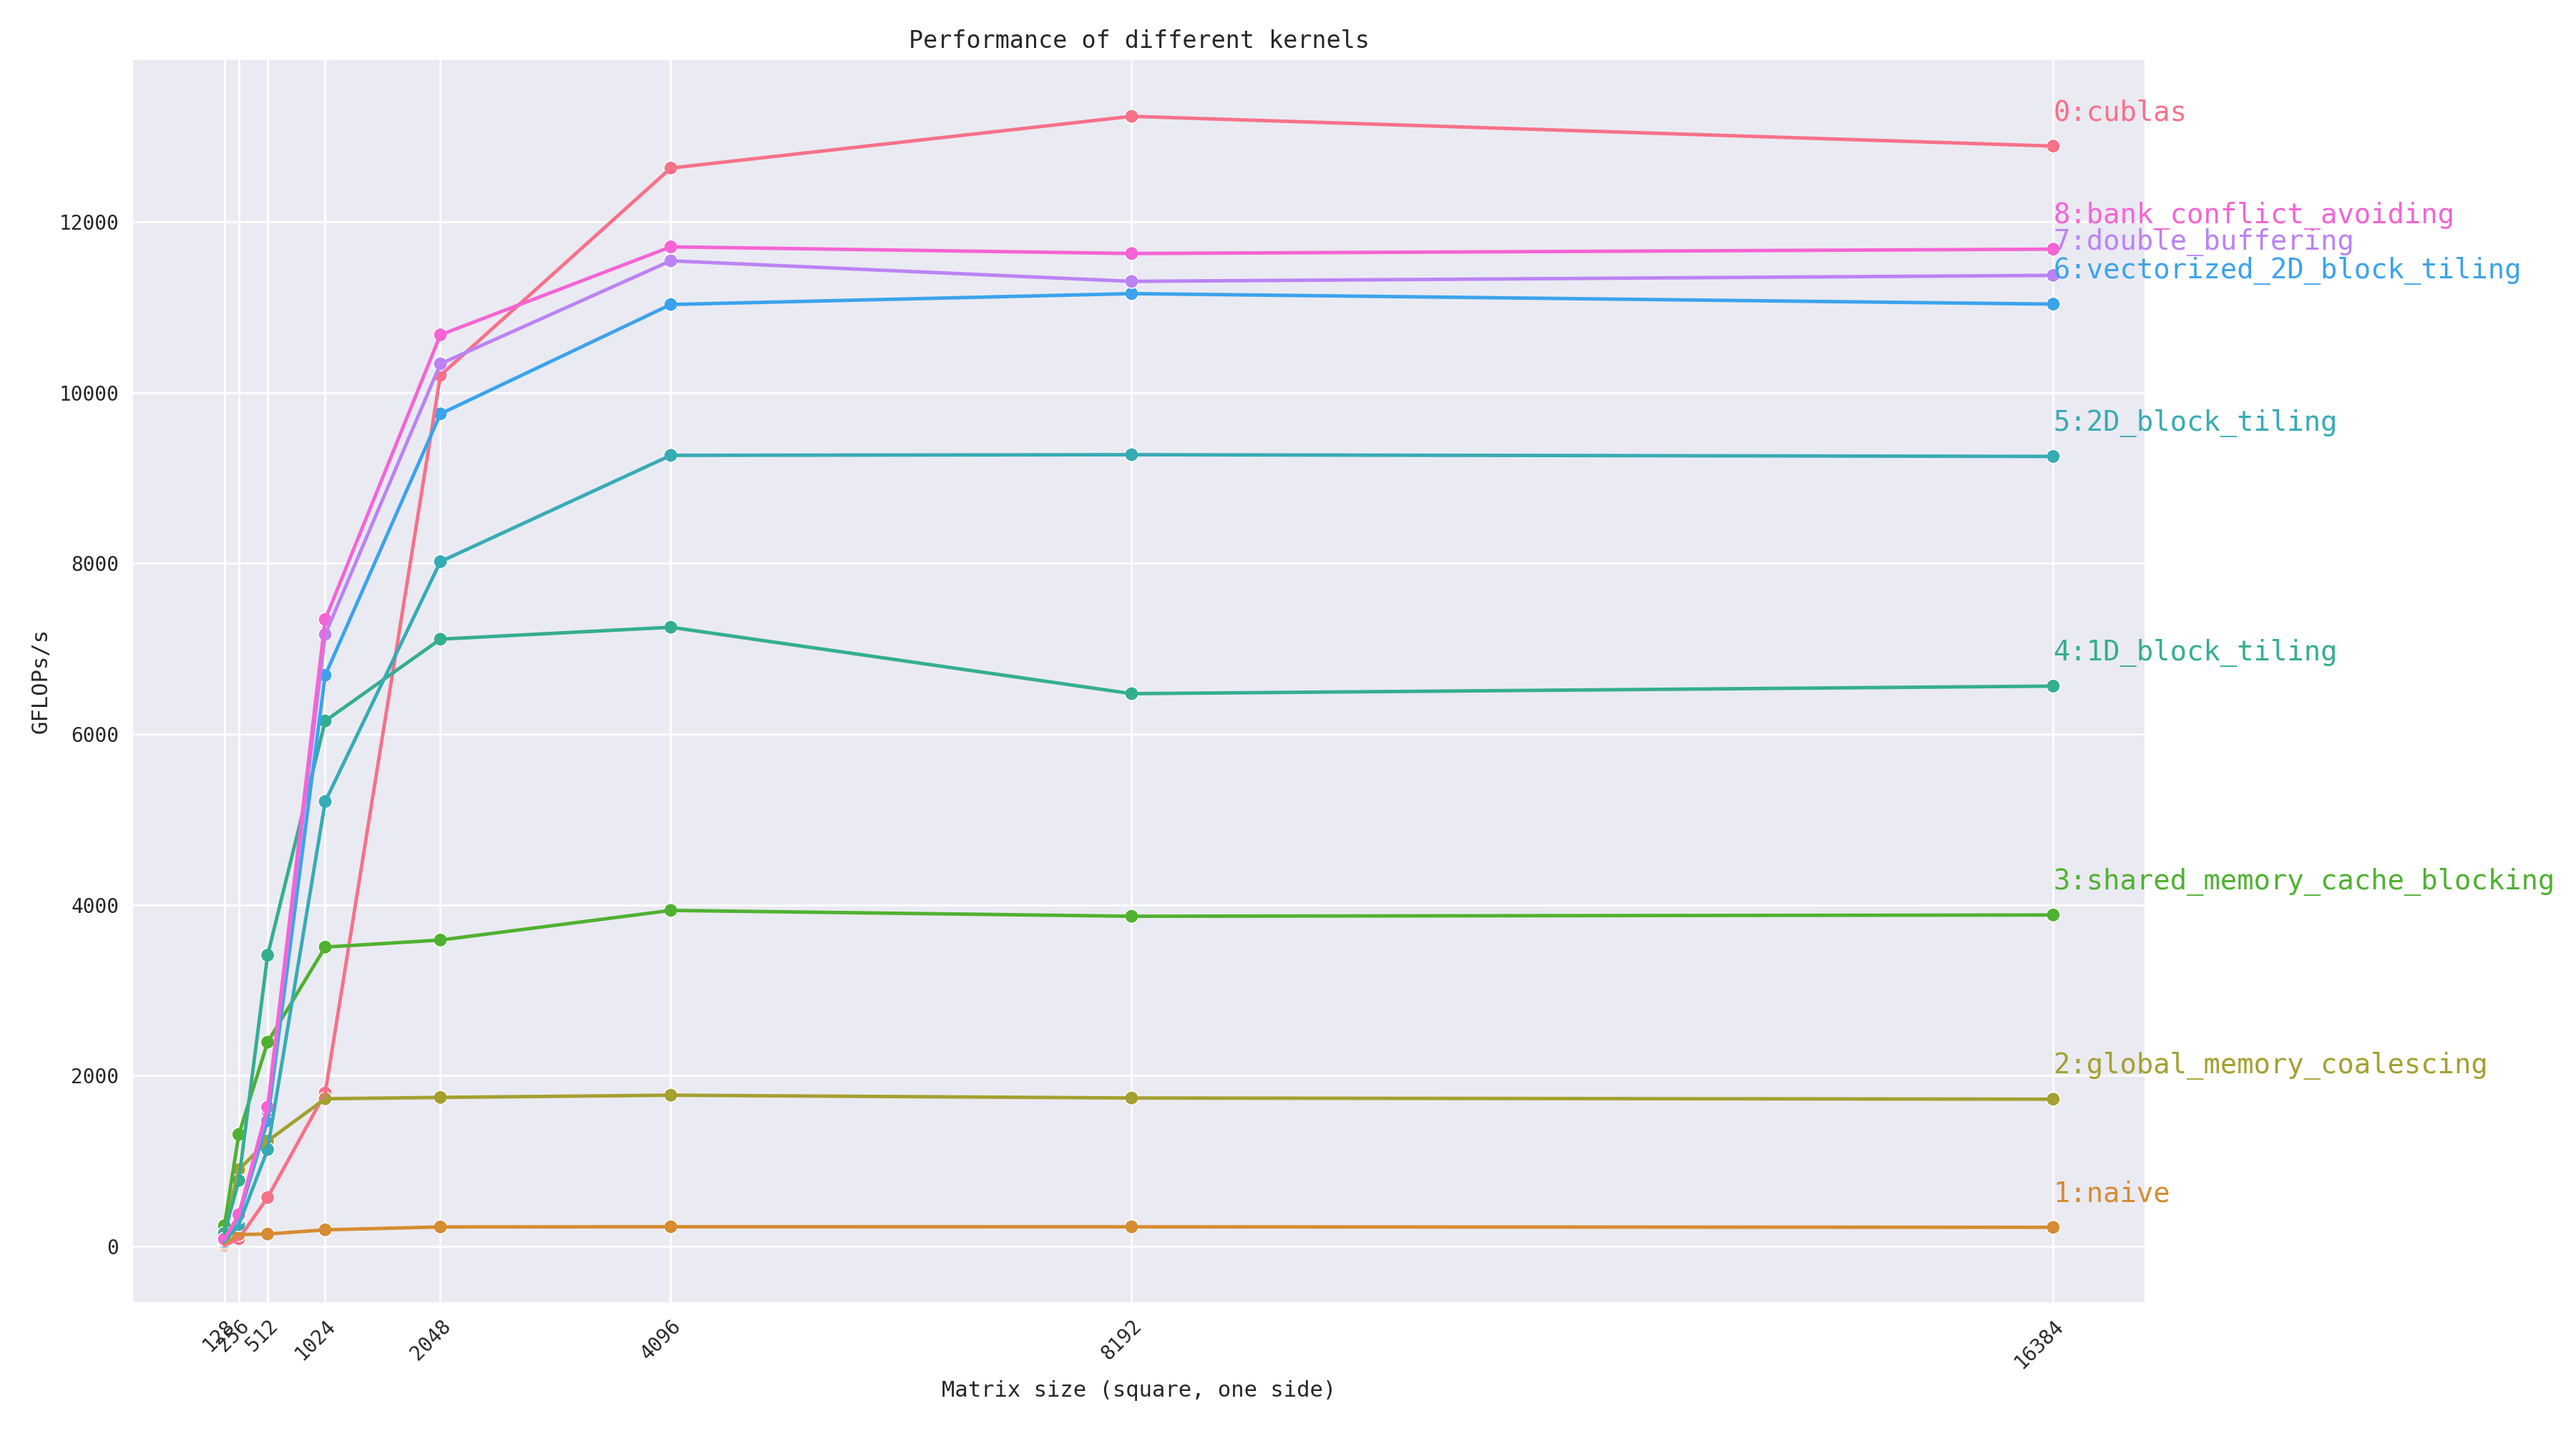
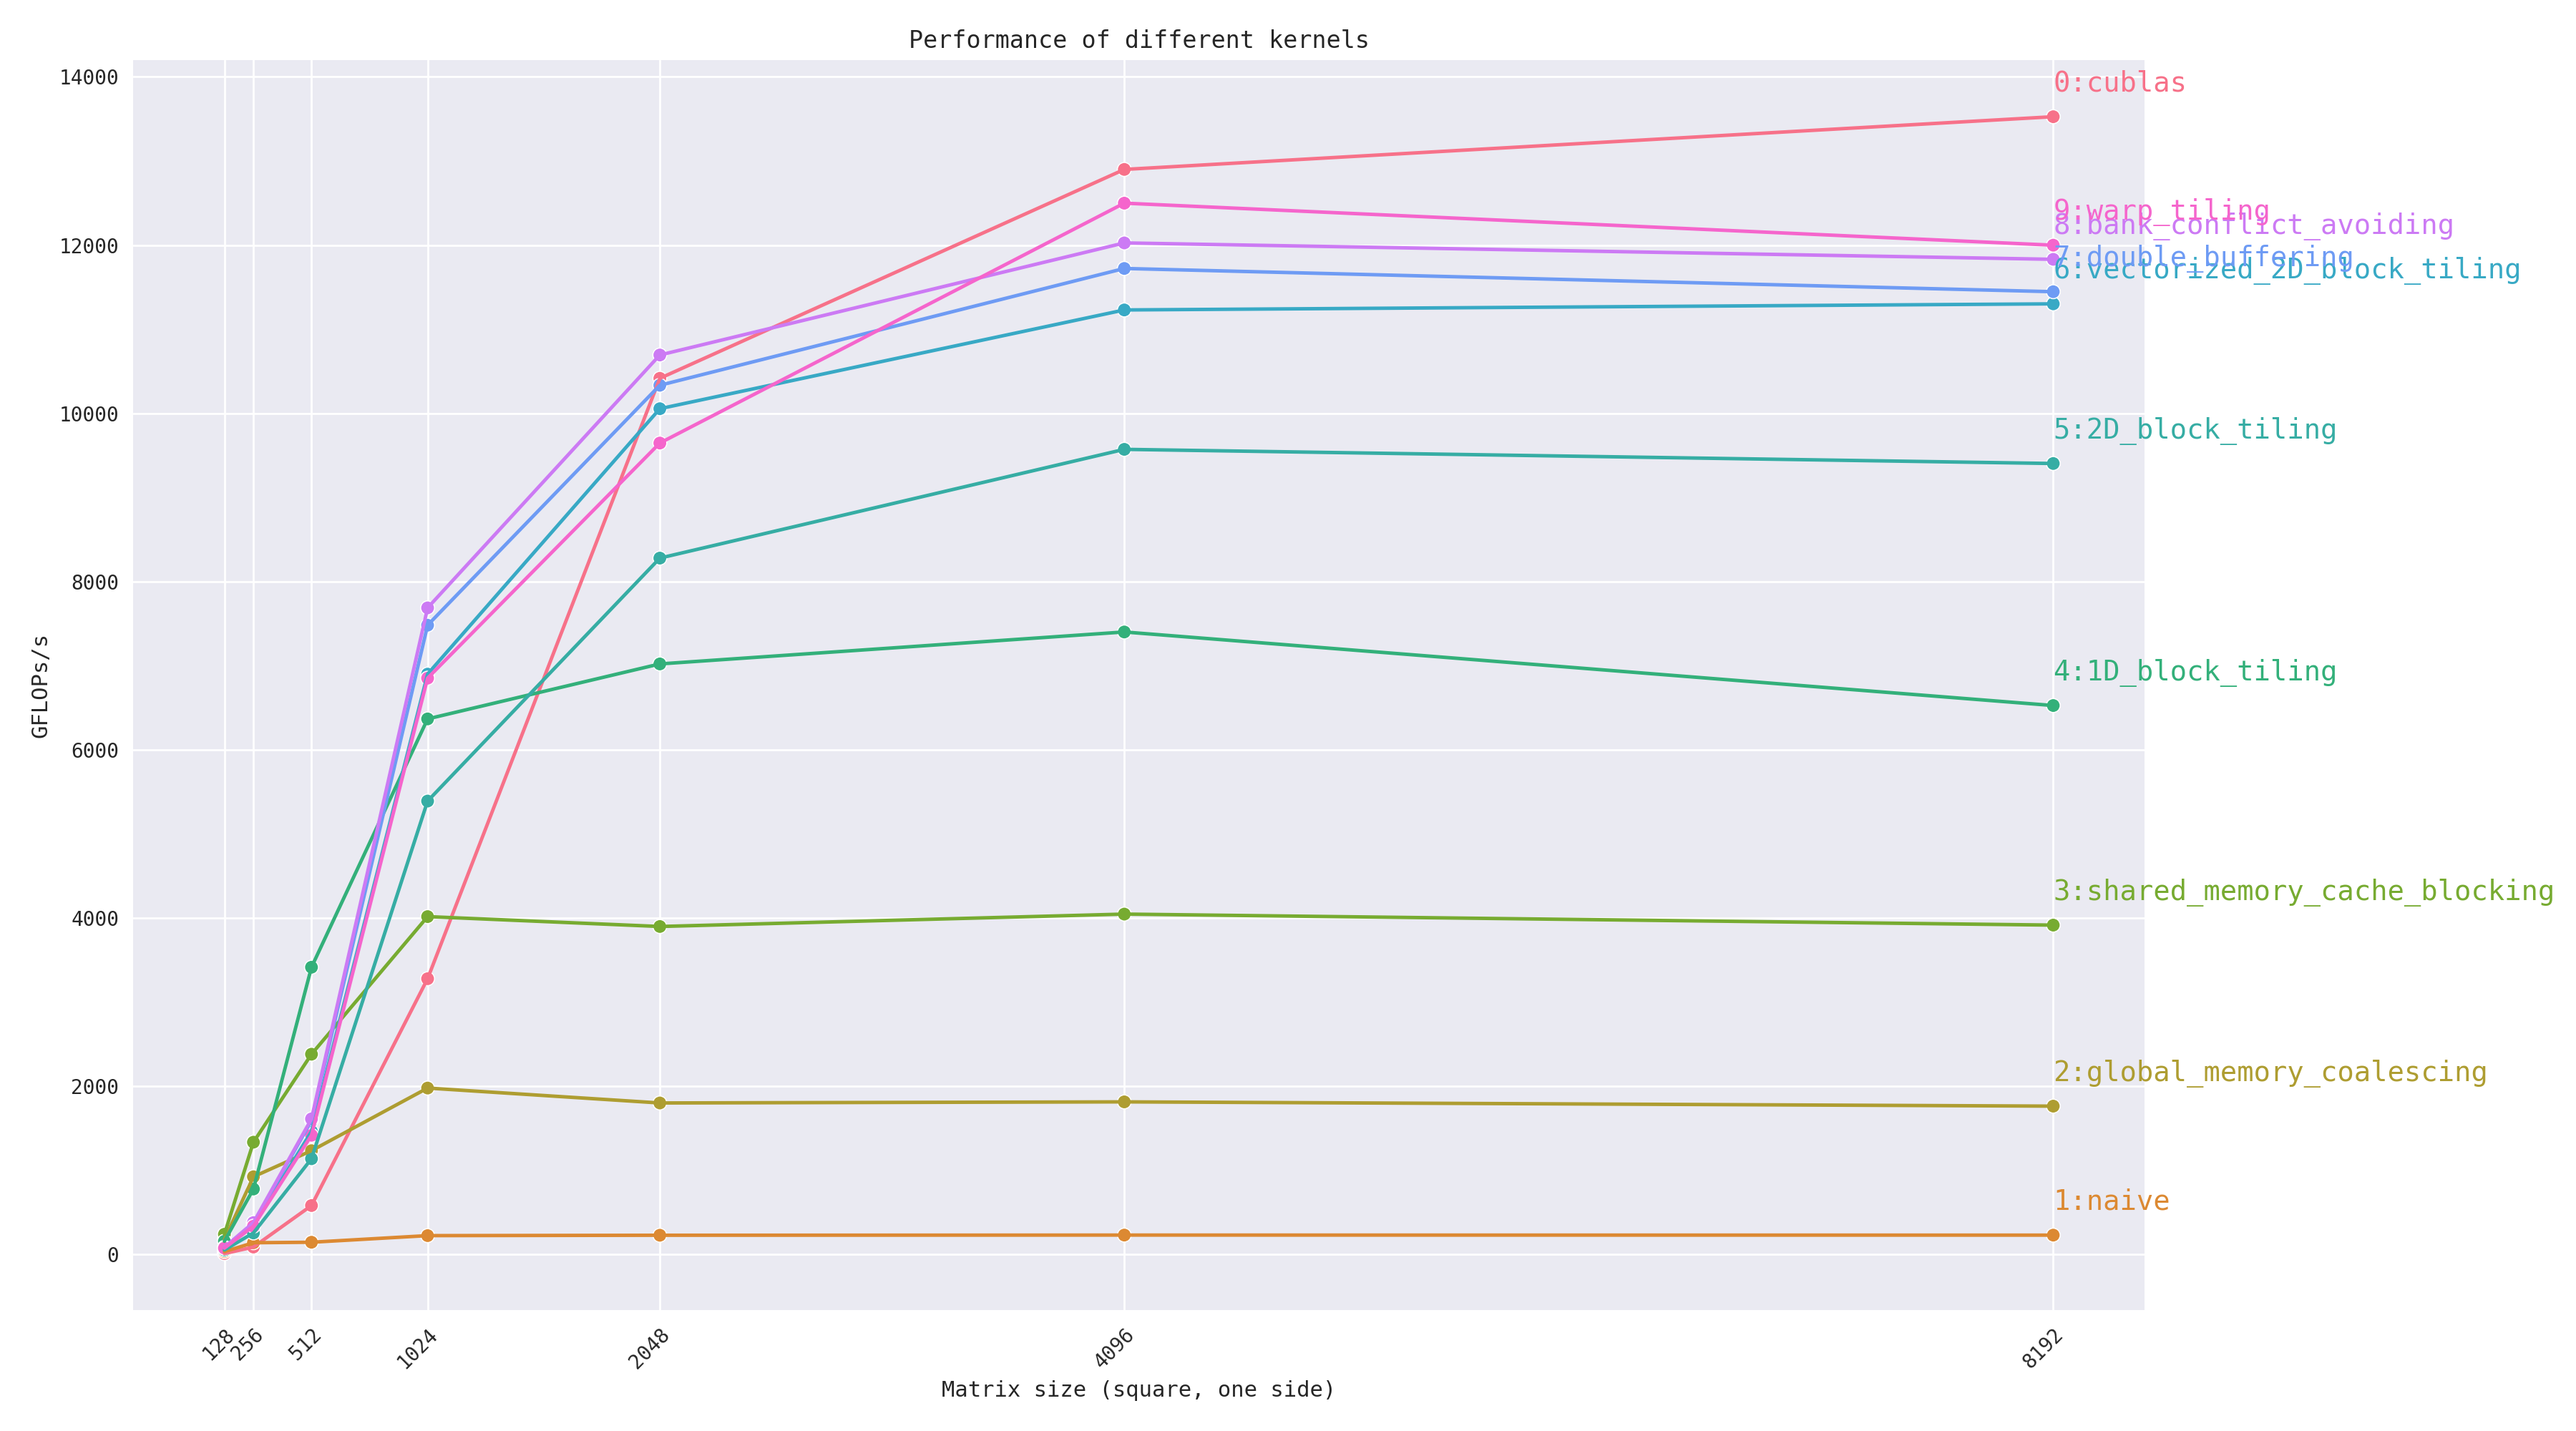
optimize warp_tiling kernel and update results

diff --git a/plot_results.py b/plot_results.py
@@ -13,18 +13,6 @@ matplotlib.rcParams["font.family"] = "monospace"
 matplotlib.rcParams["figure.dpi"] = 200
 plt.rcParams["savefig.facecolor"] = "white"
 
-KERNEL_NAMES = {
-    0: "cublas",
-    1: "naive",
-    2: "global_memory_coalescing",
-    3: "shared_memory_cache_blocking",
-    4: "1D_block_tiling",
-    5: "2D_block_tiling",
-    6: "vectorized_2D_block_tiling",
-    7: "double_buffering",
-    8: "bank_conflict_avoiding",
-}
-
 
 def parse_file(file):
 
@@ -88,7 +76,7 @@ def plot(df, output_path):
         plt.text(
             df[df["kernel"] == kernel]["size"].iloc[-1],
             df[df["kernel"] == kernel]["gflops"].iloc[-1] + 300,
-            f"{i}:{KERNEL_NAMES[i]}",
+            f"{i}:{kernel}",
             color=colors[i],
             horizontalalignment="left",
             weight="medium",

diff --git a/README.md b/README.md
@@ -85,20 +85,21 @@ Results of each kernel running GEMM in different sizes (from 128 to 16384) on NV
 ![](./gemm/benchmark_result.png)
 <!-- benchmark_plot -->
 
-The following are each kernel's performance of running 8192x8192 GEMM on Nvidia Tesla V100-PCIE-32GB:
+The following are each kernel's performance of running 4096x4096 GEMM on Nvidia Tesla V100-PCIE-32GB:
 
 <!-- benchmark_results -->
 |Idx| Kernel                           |  GFLOPs/s | Performance relative to cuBLAS |
 |:--|----------------------------------|----------:|:-------------------------------|
-| 1 | Naive                            |   `228.1` | 1.73%                          |
-| 2 | Global Memory Coalescing         |  `1774.0` | 13.45%                         |
-| 3 | Shared Memory Cache Blocking     |  `3865.2` | 29.30%                         |
-| 4 | 1D Block Tiling                  |  `6531.7` | 49.51%                         |
-| 5 | 2D Block Tiling                  |  `9409.5` | 71.32%                         |
-| 6 | Vectorized 2D Block Tiling       | `11307.8` | 85.71%                         |
-| 7 | Double Buffering                 | `11444.1` | 86.74%                         |
-| 8 | Bank Conflict Avoiding           | `11780.5` | 89.29%                         |
-| 0 | cuBLAS                           | `13193.0` | 100.00%                        |
+| 1 | Naive                            |   `228.7` | 1.77%                          |
+| 2 | Global Memory Coalescing         |  `1812.6` | 14.05%                         |
+| 3 | Shared Memory Cache Blocking     |  `4045.3` | 31.40%                         |
+| 4 | 1D Block Tiling                  |  `7399.9` | 57.36%                         |
+| 5 | 2D Block Tiling                  |  `9571.4` | 74.20%                         |
+| 6 | Vectorized 2D Block Tiling       | `11228.9` | 87.05%                         |
+| 7 | Double Buffering                 | `11722.1` | 90.87%                         |
+| 8 | Bank Conflict Avoiding           | `12025.9` | 93.23%                         |
+| 9 | Warp Tiling                      | `12498.6` | 96.89%                         |
+| 0 | cuBLAS                           | `12899.8` | 100.00%                        |
 <!-- benchmark_results -->
 
 ## Reference
